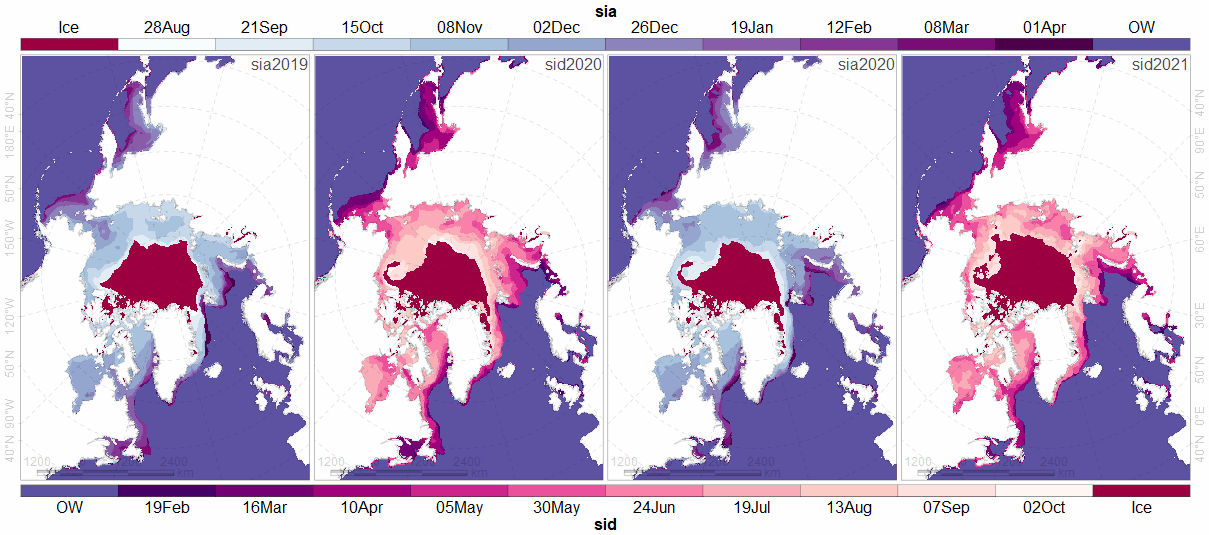
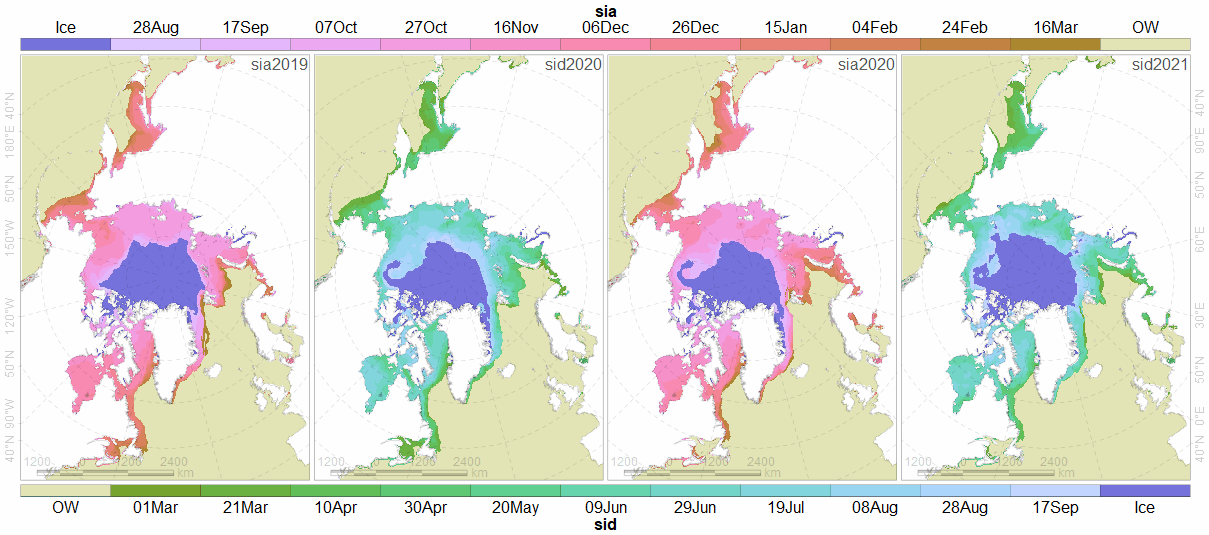
ongoing

diff --git a/isotonic/index.html b/isotonic/index.html
@@ -12,7 +12,7 @@
 
 
 
-<title>SID/SIA</title>
+<title>SID/SIA (18:30)</title>
 
 <link href="https://nplatonov.github.io/site_libs/anchor-sections-1.1.0/anchor-sections.css" rel="stylesheet" />
 <link href="https://nplatonov.github.io/site_libs/anchor-sections-1.1.0/anchor-sections-hash.css" rel="stylesheet" />
@@ -75,14 +75,14 @@ div.csl-indent {
 <address class="author_afil">
 A. N. Severtsov Institute of Ecology and Evolution of Russian Academy of Sciences, Moscow, Russia</address><br><h4 class="author">David Douglas <a href="https://orcid.org/0000-0003-0186-1104"><img src="https://nplatonov.github.io/orcid.svg" class="inline orcid" /></a></h4>
 <address class="author_afil">
-Alaska Science Center, U. S. Geological Survey, Juneau, Alaska, USA</address><br><h4 class="date">2022-06-20 01:45</h4>
+Alaska Science Center, U. S. Geological Survey, Juneau, Alaska, USA</address><br><h4 class="date">2022-06-29 18:30</h4>
 
 
 <div id="TOC">
 <ul>
 <li style="display: none;"><a href="#section" id="toc-section"></a>
 <ul>
-<li><a href="#dont-forget-abbreviating-when-first-use" id="toc-dont-forget-abbreviating-when-first-use">Don’t forget abbreviating when first use<span></span></a></li>
+<li><a href="#abbreviations" id="toc-abbreviations">Abbreviations<span></span></a></li>
 </ul></li>
 <li><a href="#introduction" id="toc-introduction">Introduction<span></span></a></li>
 <li><a href="#methods" id="toc-methods">Methods<span></span></a>
@@ -91,19 +91,22 @@ Alaska Science Center, U. S. Geological Survey, Juneau, Alaska, USA</address><br
 <li><a href="#isotonic-regression" id="toc-isotonic-regression">Isotonic regression<span></span></a></li>
 <li><a href="#seasons" id="toc-seasons">Seasons<span></span></a></li>
 <li><a href="#sic-threshold" id="toc-sic-threshold">SIC threshold<span></span></a></li>
-<li><a href="#short-terms-states" id="toc-short-terms-states">Short-terms states<span></span></a></li>
+<li><a href="#sea-ice-stages" id="toc-sea-ice-stages">Sea ice stages<span></span></a>
+<ul>
+<li><a href="#resident-ice-types" id="toc-resident-ice-types">Resident ice types<span></span></a></li>
+<li><a href="#short-terms-stages" id="toc-short-terms-stages">Short-terms stages<span></span></a></li>
+</ul></li>
 <li><a href="#sic-preprocessing" id="toc-sic-preprocessing">SIC preprocessing<span></span></a></li>
 <li><a href="#algorithm" id="toc-algorithm">Algorithm<span></span></a>
 <ul>
 <li><a href="#inverting" id="toc-inverting">Inverting<span></span></a></li>
+<li><a href="#onset-resilience" id="toc-onset-resilience">Onset resilience<span></span></a></li>
 </ul></li>
 <li><a href="#decision-making" id="toc-decision-making">Decision making<span></span></a></li>
 <li><a href="#output" id="toc-output">Output<span></span></a></li>
+<li><a href="#quality-assessment" id="toc-quality-assessment">Quality assessment<span></span></a></li>
 </ul></li>
-<li><a href="#mapping" id="toc-mapping">Mapping<span></span></a>
-<ul>
-<li><a href="#comparison-with" id="toc-comparison-with">Comparison with<span></span></a></li>
-</ul></li>
+<li><a href="#mapping" id="toc-mapping">Mapping<span></span></a></li>
 <li><a href="#application" id="toc-application">Application<span></span></a>
 <ul>
 <li><a href="#data-compression" id="toc-data-compression">Data compression<span></span></a></li>
@@ -113,7 +116,6 @@ Alaska Science Center, U. S. Geological Survey, Juneau, Alaska, USA</address><br
 </ul></li>
 <li><a href="#discussion" id="toc-discussion">Discussion<span></span></a>
 <ul>
-<li><a href="#resident-ice-term" id="toc-resident-ice-term">“Resident ice” term<span></span></a></li>
 <li><a href="#monitoring-tasks" id="toc-monitoring-tasks">Monitoring tasks<span></span></a></li>
 </ul></li>
 <li style="display: none;"><a href="#section-1" id="toc-section-1"></a>
@@ -129,13 +131,14 @@ Alaska Science Center, U. S. Geological Survey, Juneau, Alaska, USA</address><br
 
 <div id="section" class="section level1 additional">
 <h1 class="additional"></h1>
-<div id="dont-forget-abbreviating-when-first-use" class="section level2 hasAnchor">
-<h2>Don’t forget abbreviating when first use<a href="#dont-forget-abbreviating-when-first-use" class="anchor-section" aria-label="Anchor link to header"></a></h2>
+<div id="abbreviations" class="section level2 hasAnchor">
+<h2>Abbreviations<a href="#abbreviations" class="anchor-section" aria-label="Anchor link to header"></a></h2>
 <p><abbr title="Sea ice concentration">SIC</abbr>…</p>
 <p><abbr title="Sea ice extent">SIE</abbr>…</p>
 <p><abbr title="Sea ice disappearance">SID</abbr> onset dates…</p>
 <p><abbr title="Sea ice appearance">SIA</abbr> onset dates…</p>
 <p><abbr title="Day of the year">DOY</abbr>…</p>
+<p><abbr title="Root mean square error">RMSE</abbr>…</p>
 </div>
 </div>
 <div id="introduction" class="section level1 hasAnchor">
@@ -150,7 +153,15 @@ Alaska Science Center, U. S. Geological Survey, Juneau, Alaska, USA</address><br
 </div>
 <div id="isotonic-regression" class="section level2 hasAnchor">
 <h2>Isotonic regression<a href="#isotonic-regression" class="anchor-section" aria-label="Anchor link to header"></a></h2>
-<p>Isotonic regression with a singe peak <span class="citation">(<a href="#ref-Turner1997" role="doc-biblioref">Turner and Wollan, 1997</a>)</span>. Implemented in package <code>Iso</code> <span class="citation">(<a href="#ref-r-Iso" role="doc-biblioref">Turner, 2020</a>)</span> for R statistical software <span class="citation">(<a href="#ref-r-core" role="doc-biblioref">R Core Team, 2022</a>)</span>.</p>
+<p>Isotonic unimodal regression <span class="citation">(<a href="#ref-Turner1997" role="doc-biblioref">Turner and Wollan, 1997</a>)</span> is used for fitting of SIC time-series. Implemented in package <code>Iso</code> <span class="citation">(<a href="#ref-r-Iso" role="doc-biblioref">Turner, 2020</a>)</span> for R statistical software <span class="citation">(<a href="#ref-r-core" role="doc-biblioref">R Core Team, 2022</a>)</span>. Isotonic fitted curve excludes double or multiple crossing threshold value, which was reached in 4.8 % cases of fitted smoothed regional SIC time-series <span class="citation">(<a href="#ref-SternLaidre2016" role="doc-biblioref">Stern and Laidre, 2016</a>)</span>.</p>
+<div class="aside">
+<blockquote>
+<p>In practice, out of 2736 crossing dates (36 years × 2 seasons × 19 regions × 2 time series
+per region), only 131 dates (4.8 %) had any potential for ambiguity.
+In more than 95 % of the cases there was clearly only a single crossing date.
+<span class="citation">(<a href="#ref-SternLaidre2016" role="doc-biblioref">Stern and Laidre, 2016</a>)</span></p>
+</blockquote>
+</div>
 <p>Less sensitive for period subset in comparison with asymmetrical Gaussian</p>
 </div>
 <div id="seasons" class="section level2 hasAnchor">
@@ -159,7 +170,7 @@ Alaska Science Center, U. S. Geological Survey, Juneau, Alaska, USA</address><br
 <ul>
 <li><p>“max”: winter, period of maximal sea ice extent between 15 January and 15 May.</p></li>
 <li><p>“mlt”: Spring, period of sea ice retreat between 15 February and 30 September.</p></li>
-<li><p>“min”: Summer, perod of minimal sea ice extent between 15 July and 31 October.</p></li>
+<li><p>“min”: Summer, perod of minimal sea ice extent between 15 July and 15 November.</p></li>
 <li><p>“frz”: Autumn, period of sea ice advance between 15 August and 31 March.</p></li>
 </ul>
 <p>Seasonal sequence for SID is “max”, “mlt”, “min”.</p>
@@ -173,11 +184,34 @@ Alaska Science Center, U. S. Geological Survey, Juneau, Alaska, USA</address><br
 </div>
 <div id="sic-threshold" class="section level2 hasAnchor">
 <h2>SIC threshold<a href="#sic-threshold" class="anchor-section" aria-label="Anchor link to header"></a></h2>
-<p>We selected SIC 15%, which is abopted from <span class="citation">Parkinson <em>et al.</em> (<a href="#ref-Parkinson1999" role="doc-biblioref">1999</a>)</span>. This is common value for estimating sea ice extent <span class="citation">(<a href="#ref-NSIDC_ice-extent" role="doc-biblioref">NSIDC, 2020</a>)</span>.</p>
+<p>We selected SIC 15 %, which is abopted from <span class="citation">Parkinson <em>et al.</em> (<a href="#ref-Parkinson1999" role="doc-biblioref">1999</a>)</span>. This is common value for estimating sea ice extent <span class="citation">(<a href="#ref-NSIDC_ice-extent" role="doc-biblioref">NSIDC, 2020</a>)</span>.</p>
 </div>
-<div id="short-terms-states" class="section level2 hasAnchor">
-<h2>Short-terms states<a href="#short-terms-states" class="anchor-section" aria-label="Anchor link to header"></a></h2>
-<p>We selected 3 days for identification onsets. If SIC is &lt;15% for fitted timeseries during 3 days, then SID and SIA are detected. If SIC is &lt;15% for fitted time-series during 3 days, then resident ice ice is detected.</p>
+<div id="sea-ice-stages" class="section level2 hasAnchor">
+<h2>Sea ice stages<a href="#sea-ice-stages" class="anchor-section" aria-label="Anchor link to header"></a></h2>
+<div class="aside">
+<p>2013:</p>
+<blockquote>
+<p><em>Resident ice</em> – status of grid cell, for which the ice-free conditions are absent during the considered period. The extent of resident ice is less than or equal to extent of multiyear ice.
+<em>Resident open water</em> – status of grid cell, for which the icy conditions are absent during the considered period.
+<em>Ice presence, icy conditions</em> mean that sea ice concentration is ≥15%.
+<em>Ice-free conditions</em> mean that sea ice concentration is &lt;15%.</p>
+</blockquote>
+</div>
+<div id="resident-ice-types" class="section level3 hasAnchor">
+<h3>Resident ice types<a href="#resident-ice-types" class="anchor-section" aria-label="Anchor link to header"></a></h3>
+<p>Resident open water where ice is absent during the entire winter period</p>
+<p>Resident ice where ice is present all summer.</p>
+<p>We distinguish summer minimum extent and extent of resident ice. The former is set of cells with ice for the date of mimimal seasonal extent. The later is set of cells without SID or SIA detection.</p>
+</div>
+<div id="short-terms-stages" class="section level3 hasAnchor">
+<h3>Short-terms stages<a href="#short-terms-stages" class="anchor-section" aria-label="Anchor link to header"></a></h3>
+<p>Comparing summer minimal extent and extent of resident sea ice, we estimated 7 as a minimal duration for open-water period during summer.
+Comparing winter maximal extent and outer extent without resident open water, we estimated 21 as a minimal duration for sea ice period during winter.
+If SIC is &lt;15 % for fitted timeseries during 7 days or more, then SID and SIA are detected.
+If SIC is &lt;15 % for fitted time-series during less than 7 days, then resident ice is detected.
+If SIC is ≥15 % for fitted timeseries during 21 days or more, then SID and SIA are detected.
+If SIC is ≥15 % for fitted time-series during less than21 days, then resident open water is detected.</p>
+</div>
 </div>
 <div id="sic-preprocessing" class="section level2 hasAnchor">
 <h2>SIC preprocessing<a href="#sic-preprocessing" class="anchor-section" aria-label="Anchor link to header"></a></h2>
@@ -185,6 +219,7 @@ Alaska Science Center, U. S. Geological Survey, Juneau, Alaska, USA</address><br
 <blockquote>
 <p><em>2013</em>: We developed an algorithm to estimate SID and SIA onset dates using daily SIC data derived from 25-km x 25-km pixel resolution SSM/I and SSMIS passive microwave satellite imagery (Maslanik et al. 1999). We preprocessed the SIC data in two steps: 1) spatial filtering to fill no-data pixels using Gaussian smoothing with a 3x3 pixel window size and <span class="math inline"><em>σ</em></span>=0.75; and 2) temporal linear interpolation to fill remaining no-data pixels using three sequential sliding windows with sizes 3x3, 5x5, and 7x7 pixels.</p>
 </blockquote>
+<div class="aside">
 <blockquote>
 <blockquote>
 <p>“Maslanik et al. 1999” is <span class="citation">Maslanik and Stroeve (<a href="#ref-NASATeam_NRT" role="doc-biblioref">1999</a>)</span>. Change to <span class="citation">(<a href="#ref-NASATeam_GSFC" role="doc-biblioref">Cavalieri, 1996</a>)</span>.<br />
@@ -193,45 +228,70 @@ Alaska Science Center, U. S. Geological Survey, Juneau, Alaska, USA</address><br
 + NRT NASA Team <span class="citation">(<a href="#ref-NASATeam_NRT" role="doc-biblioref">Maslanik and Stroeve, 1999</a>)</span></p>
 </blockquote>
 </blockquote>
-<p>Polar belt is filled by SIC value 100%. Each data contains 66285 cells. Coastal buffer zone (1-2 pixel or 25-50 km) are (can be) applied for output.</p>
+</div>
+<p>Invisible for SSM/I and SSMIS scanning instrument Polar belt (approximately north of 86.5°N) is filled by SIC value 100%. For our data () There is no SID or SIA onsets, which are close to polar belt for our data (1988-2021). Each map contains 66285 cells. Coastal buffer zone (1-2 pixel or 25-50 km) are (can be) applied for output.</p>
 </div>
 <div id="algorithm" class="section level2 hasAnchor">
 <h2>Algorithm<a href="#algorithm" class="anchor-section" aria-label="Anchor link to header"></a></h2>
-<p>Each phenological state (SID or SIA) is considered independently. For each phenological state seasons are considered independently: “max”, “mlt”, and “min” for SID; “min”, “frz”, and “max” for SIA. For each season, SIC time-series is approximated by isotonic function with a single peak. Based on fitted time-series, SID is last date when SIC≥15%, SIA is first date when SIC≥15%.</p>
+<p>Each phenological state (SID or SIA) is considered independently. For each phenological state seasons are considered independently: “max”, “mlt”, and “min” for SID; “min”, “frz”, and “max” for SIA. For each season, SIC time-series is approximated by isotonic function with a single mode. Based on fitted time-series, SID is last date when SIC ≥15 %, SIA is first date when SIC ≥15 %.</p>
 <div id="inverting" class="section level3 hasAnchor">
 <h3>Inverting<a href="#inverting" class="anchor-section" aria-label="Anchor link to header"></a></h3>
-<p>Two time-series: original <em>x</em> and inverted <em>100-x</em> are fitted. Fitting with minimal RMSE is selected. Backward transition <em>100-x</em> for inverted fitting.</p>
+<p>Generally, two time-series: original <span class="math inline"><em>x</em></span> and inverted <span class="math inline">100 − <em>x</em></span> are fitted. For “max” season only original <span class="math inline"><em>x</em></span> is considered. For “min” season only inverted <span class="math inline">100 − <em>x</em></span> is considered. For “mlt” and “frz” seasons both fittings compete, and fitting with minimal RMSE is selected. Backward transition <span class="math inline">100 − <em>x</em></span> is applied for inverted fitting.</p>
+</div>
+<div id="onset-resilience" class="section level3 hasAnchor">
+<h3>Onset resilience<a href="#onset-resilience" class="anchor-section" aria-label="Anchor link to header"></a></h3>
+<p>Additional numeric value for resilience of onset date, proximity to ends of time-series, is included to interim output for estimating quality of fitting. Proximity to ends is estimated as a fraction between 0.0 and 0.5, where 0.0 means position in the head or tail of time-series, 0.5 means position in the middle of time-series. There is more uncertainty in the proximity to the boundaries of time-series period because of the uncertain time-series behavior beyond considered period.</p>
 </div>
 </div>
 <div id="decision-making" class="section level2 hasAnchor">
 <h2>Decision making<a href="#decision-making" class="anchor-section" aria-label="Anchor link to header"></a></h2>
-<p>Because output has length 3, only one value is selected. For SID “mlt” has higher priority. For SIA “frz” has higher priority. If SIA, then “max” is selected between “min” and “max” competition.</p>
+<p>Because output has length 3, only one value is selected based on maximal value of onset resilience.</p>
+<div class="aside">
+<p>Deprecated:</p>
+<blockquote>
+<p>For SID “mlt” has higher priority. For SIA “frz” has higher priority. If SIA, then “max” is selected between “min” and “max” competition.</p>
+</blockquote>
+</div>
 </div>
 <div id="output" class="section level2 hasAnchor">
 <h2>Output<a href="#output" class="anchor-section" aria-label="Anchor link to header"></a></h2>
 <p>Raster maps with two kinds of information.</p>
 <ol style="list-style-type: decimal">
-<li><p>Values between 15 and 490 denote DOY of SID onset or SIA onset.</p></li>
-<li><p>Values greater than 800 are flags.</p>
+<li><p>Values between 15 and 600 denote DOY of SID onset or SIA onset.</p></li>
+<li><p>Values between 600 and 1000 are flags.</p>
 <ul>
-<li>880: resident sea ice<br />
-</li>
-<li>870: resident open water<br />
-Below are additional flags for data procuct:
+<li><p>990: resident sea ice<br />
+</p></li>
+<li><p>980: resident open water</p></li>
+<li><p>930: transition</p>
+<p>Below are interim flags for flexible detection of short-term phenological stages:</p>
 <ul>
-<li>860: algorithm fails to detect transition from sea ice to open water<br />
+<li>701-750: lifetime of short-term ice during winter in days with added value 700<br />
 </li>
-<li>850: algorithm fails to detect transition from open water to sea ice</li>
-<li>840: short-term sea ice (duration of period with ice is less than 3 days)</li>
-<li>830: short-term open water (duration of period without ice is less than 3 days)<br />
-</li>
-<li>820: sometimes SIC drops &lt;15% but fitting doesn’t drops this threshold<br />
-</li>
-<li>810: sometimes SIC raises ≥15% but fitting doesn’t raises this threshold</li>
+<li>701-750: lifetime of short-term open water during summer in days with added value 800</li>
 </ul>
-Flags 880, 830, and 820 are interpreted as resident ice.</li>
-</ul></li>
+<p>After excluding of short-term phenological stages (21 days for sea ice and 7 days for open water), values between 701 and 720 are reclassified to 980, values between 721 and 750 are reclassified to 930, values between 801 and 806 are reclassified to 990, values between 807 and 850 are reclassified to 930.</p></li>
+</ul>
+<!--
+   + 850: algorithm fails to detect transition from open water to sea ice
+   + 840: short-term sea ice (duration of period with ice is less than `slen` days)
+   + 830: short-term open water (duration of period without ice is less than `slen` days)  
+   + 820: sometimes SIC drops <15 % but fitting doesn't drops this threshold  
+   + 810: sometimes SIC raises ≥15 % but fitting doesn't raises this threshold  
+
+   Flags 880, 830, and 820 are interpreted as resident ice.
+--></li>
+<li><p>Values greater than 6500 are dates with origin 1970-01-01 00:00:00.</p></li>
 </ol>
+<p>Based on available SIC <span class="citation">(<a href="#ref-NASATeam_GSFC" role="doc-biblioref">Cavalieri, 1996</a>)</span> the interleaving starts by 1988 SID and ends 2001 SID. For demonstration purposed four maps in the tail of sequence are used: 2019 SIA, 2020 SID, 2020 SIA, 2021 SID</p>
+</div>
+<div id="quality-assessment" class="section level2 hasAnchor">
+<h2>Quality assessment<a href="#quality-assessment" class="anchor-section" aria-label="Anchor link to header"></a></h2>
+<p>We developed two kind of maps for consequent interleaving.</p>
+<ul>
+<li><p>Difference between consequent SIA dates and SID dates – duration of open water season. For all 33 maps during 1988-2020, based on consequent SIA after SID, with total 524971 cells there are 10 cells (19ppm) with negative values of season duration: 4 for 2014, 1 for 2005, 3 for 2000 and 1 for 1996.</p></li>
+<li><p>Difference between consequent SID dates and SIA dates – duration of ice season. For all maps there was not detection of negative values.</p></li>
+</ul>
 </div>
 </div>
 <div id="mapping" class="section level1 hasAnchor">
@@ -243,26 +303,29 @@ Flags 880, 830, and 820 are interpreted as resident ice.</li>
 <span class="caption-prefix">Figure 2</span><span class="caption-suffix"></span> Consequence of phenological seasons
 </p>
 </div>
-<div id="comparison-with" class="section level2 hasAnchor">
-<h2>Comparison with<a href="#comparison-with" class="anchor-section" aria-label="Anchor link to header"></a></h2>
-<ul>
-<li><p>Using ‘nugget’ (variogram parameter), spatial autocorrelation</p>
-<ul>
-<li><p>SID <em>vs</em> first/second/third day when SIC drops below 15%.</p></li>
-<li><p>SID <em>vs</em> date when “At least three consequent days with SIC&lt;15%”.</p></li>
-</ul></li>
-<li><p>Difference in days between snowmelt onset and SID.</p></li>
-</ul>
-</div>
+<!--
+
+## Comparison with 
+
+
++ Using ‘nugget’ (variogram parameter), spatial autocorrelation
+
+   + SID *vs* first/second/third day when SIC drops below 15 %.
+
+   + SID *vs* date when "At least three consequent days with SIC<15 %". 
+
++ Difference in days between snowmelt onset [@Markus_PMW_data] and SID.
+
+-->
 </div>
 <div id="application" class="section level1 hasAnchor">
 <h1>Application<a href="#application" class="anchor-section" aria-label="Anchor link to header"></a></h1>
 <div id="data-compression" class="section level2 hasAnchor">
 <h2>Data compression<a href="#data-compression" class="anchor-section" aria-label="Anchor link to header"></a></h2>
 <p>For any date (in units of DOY) of transitional period SIE is restored by overlapping mask with values ≤DOY and mask with flag of resident ice.</p>
-<p>Single map instead of seasonal set (about two hundred maps) of sea ice extent maps. See comparison on Figure <a href="#fig:cumextent">3</a>. Tails of isotonic SID and SIA curvesare limited by minimal and maximal values of onset.</p>
+<p>Single map instead of seasonal set (about three hundred maps) of sea ice extent maps. See comparison on Figure <a href="#fig:cumextent">3</a>. Tails of isotonic SID and SIA curvesare limited by minimal and maximal values of onset.</p>
 <div class="figure"><span style="display:block;" id="fig:cumextent"></span>
-<img src="assets/cumextent.png" alt="Evolutions of SIE (grey) from SIC and restored SIE from SID (red) and SIA (blue) maps" width="403" />
+<img src="assets/cumextent.png" alt="Evolutions of SIE (grey) from SIC and restored SIE from SID (red) and SIA (blue) maps" width="771" />
 <p class="caption">
 <span class="caption-prefix">Figure 3</span><span class="caption-suffix"></span> Evolutions of SIE (grey) from SIC and restored SIE from SID (red) and SIA (blue) maps
 </p>
@@ -272,7 +335,7 @@ Flags 880, 830, and 820 are interpreted as resident ice.</li>
 <h2>Polar bears behaviour<a href="#polar-bears-behaviour" class="anchor-section" aria-label="Anchor link to header"></a></h2>
 <ul>
 <li><p>As a metric for polar bear habitat.</p></li>
-<li><p>Polar bear subpopulation heatmaps</p></li>
+<li><p>Polar bear subpopulation choropleths.</p></li>
 <li><p>Scatterplot (Figure <a href="#fig:telemetry">4</a>), X-value is date of polar bear location, Y-value is SID/SIA.</p></li>
 </ul>
 <div class="figure"><span style="display:block;" id="fig:telemetry"></span>
@@ -281,8 +344,8 @@ Flags 880, 830, and 820 are interpreted as resident ice.</li>
 <span class="caption-prefix">Figure 4</span><span class="caption-suffix"></span> How to polar bear adapt to sea ice break-up
 </p>
 </div>
-<div class="note">
-<p>Figure <a href="#fig:telemetry">4</a> is apopted from <span class="citation">Rozhnov <em>et al.</em> (<a href="#ref-Rozhnov2017_hutuda" role="doc-biblioref">2017</a>)</span>. Would be better to use permitted data, like <span class="citation">Pagano <em>et al.</em> (<a href="#ref-Pagano2021_CRW" role="doc-biblioref">2021</a>)</span>.</p>
+<div class="aside">
+<p>Figure <a href="#fig:telemetry">4</a> is adopted from <span class="citation">Rozhnov <em>et al.</em> (<a href="#ref-Rozhnov2017_hutuda" role="doc-biblioref">2017</a>)</span>. Would be better to use permitted data, like <span class="citation">Pagano <em>et al.</em> (<a href="#ref-Pagano2021_CRW" role="doc-biblioref">2021</a>)</span>.</p>
 </div>
 </div>
 <div id="isodates" class="section level2 hasAnchor">
@@ -311,10 +374,6 @@ Flags 880, 830, and 820 are interpreted as resident ice.</li>
 </div>
 <div id="discussion" class="section level1 hasAnchor">
 <h1>Discussion<a href="#discussion" class="anchor-section" aria-label="Anchor link to header"></a></h1>
-<div id="resident-ice-term" class="section level2 hasAnchor">
-<h2>“Resident ice” term<a href="#resident-ice-term" class="anchor-section" aria-label="Anchor link to header"></a></h2>
-<p>We used “resident” ice instead of summer minimum.</p>
-</div>
 <div id="monitoring-tasks" class="section level2 hasAnchor">
 <h2>Monitoring tasks<a href="#monitoring-tasks" class="anchor-section" aria-label="Anchor link to header"></a></h2>
 <p>Near real-time data for monitoring tasks. For mapping “near” means couple weeks for regions with seasonal ice and months for regions with close proximity to MYI</p>
@@ -333,8 +392,12 @@ Flags 880, 830, and 820 are interpreted as resident ice.</li>
 </div>
 <div id="availability-of-data-and-material" class="section level2 hasAnchor">
 <h2>Availability of data and material<a href="#availability-of-data-and-material" class="anchor-section" aria-label="Anchor link to header"></a></h2>
+<p>Github <a href="https://github.com/nplatonov/phenology">nplatonov/phenology</a> repository with GeoTiff<del>/NetCDF</del> dataset and source R <span class="citation">(<a href="#ref-r-core" role="doc-biblioref">R Core Team, 2022</a>)</span> code. Assigned Zenodo DOI. Dependence from package <code>ursa</code> <span class="citation">(<a href="#ref-r-ursa-dev" role="doc-biblioref">Platonov, 2022</a>)</span>, version ≥ 3.9.7.</p>
 <ul>
-<li><p>Any stage: github R <span class="citation">(<a href="#ref-r-core" role="doc-biblioref">R Core Team, 2022</a>)</span> repository, including GeoTiff/NetCDF dataset, with Zenodo DOI. CRAN package.</p></li>
+<li><p>R package on github with vignette, then CRAN. Only sia2019.tif, sia2020.tif, sid2020.tif, sid2021.tif. <a href="https://cran.r-project.org/web/packages/policies.html#Source-packages">Because</a>:</p>
+<blockquote>
+<p>As a general rule, neither data nor documentation should exceed 5MB (which covers several books). A CRAN package is not an appropriate way to distribute course notes, and authors will be asked to trim their documentation to a maximum of 5MB.</p>
+</blockquote></li>
 <li><p>After publication: add publication citing to package’s “how to cite”.</p></li>
 <li><p>NSIDC dataset?</p></li>
 </ul>
@@ -383,6 +446,9 @@ Pagano AM, Durner GM, Atwood TC and Douglas DC. 2021. <span class="nocase">Polar
 <div id="ref-Parkinson1999" class="csl-entry">
 Parkinson CL, Cavalieri DJ, Gloersen P, Zwally HJ and Comiso JC. 1999. Arctic sea ice extents, areas, and trends, 1978-1996. <em>Journal of Geophysical Research: Oceans</em>, 104(C9): 20837–20856. <a href="https://doi.org/10.1029/1999jc900082">10.1029/1999jc900082</a>.
 </div>
+<div id="ref-r-ursa-dev" class="csl-entry">
+Platonov N. 2022. <span class="nocase">ursa: Non-Interactive Spatial Tools for Raster Processing and Visualization</span>. R package version 3.9.7. <a href="https://github.com/nplatonov/ursa">https://github.com/nplatonov/ursa</a> (accessed 29 June 2022).
+</div>
 <div id="ref-r-core" class="csl-entry">
 R Core Team. 2022. R: A language and environment for statistical computing. <a href="https://www.R-project.org/">https://www.R-project.org/</a> (accessed 04 March 2022).
 </div>
@@ -394,6 +460,9 @@ Rozhnov VV, Platonov NG, Naidenko SV, Mordvintsev IN and Ivanov EA. 2017. <span 
 </div>
 <div id="ref-Bremen_iceconc" class="csl-entry">
 Spreen G, Kaleschke L and Heygster G. 2008. Sea ice remote sensing using <span>AMSR-E</span> 89-<span>GHz</span> channels. <em>Journal of Geophysical Research: Oceans</em>, 113(C2). C02S03. <a href="https://doi.org/10.1029/2005JC003384">10.1029/2005JC003384</a>.
+</div>
+<div id="ref-SternLaidre2016" class="csl-entry">
+Stern HL and Laidre KL. 2016. Sea-ice indicators of polar bear habitat. <em>The Cryosphere</em>, 10(5): 2027–2041. <a href="https://doi.org/10.5194/tc-10-2027-2016">10.5194/tc-10-2027-2016</a>.
 </div>
 <div id="ref-Stroeve2018" class="csl-entry">
 Stroeve J and Notz D. 2018. Changing state of <span>A</span>rctic sea ice across all seasons. <em>Environmental Research Letters</em>, 13(10): 103001. <a href="https://doi.org/10.1088/1748-9326/aade56">10.1088/1748-9326/aade56</a>.
